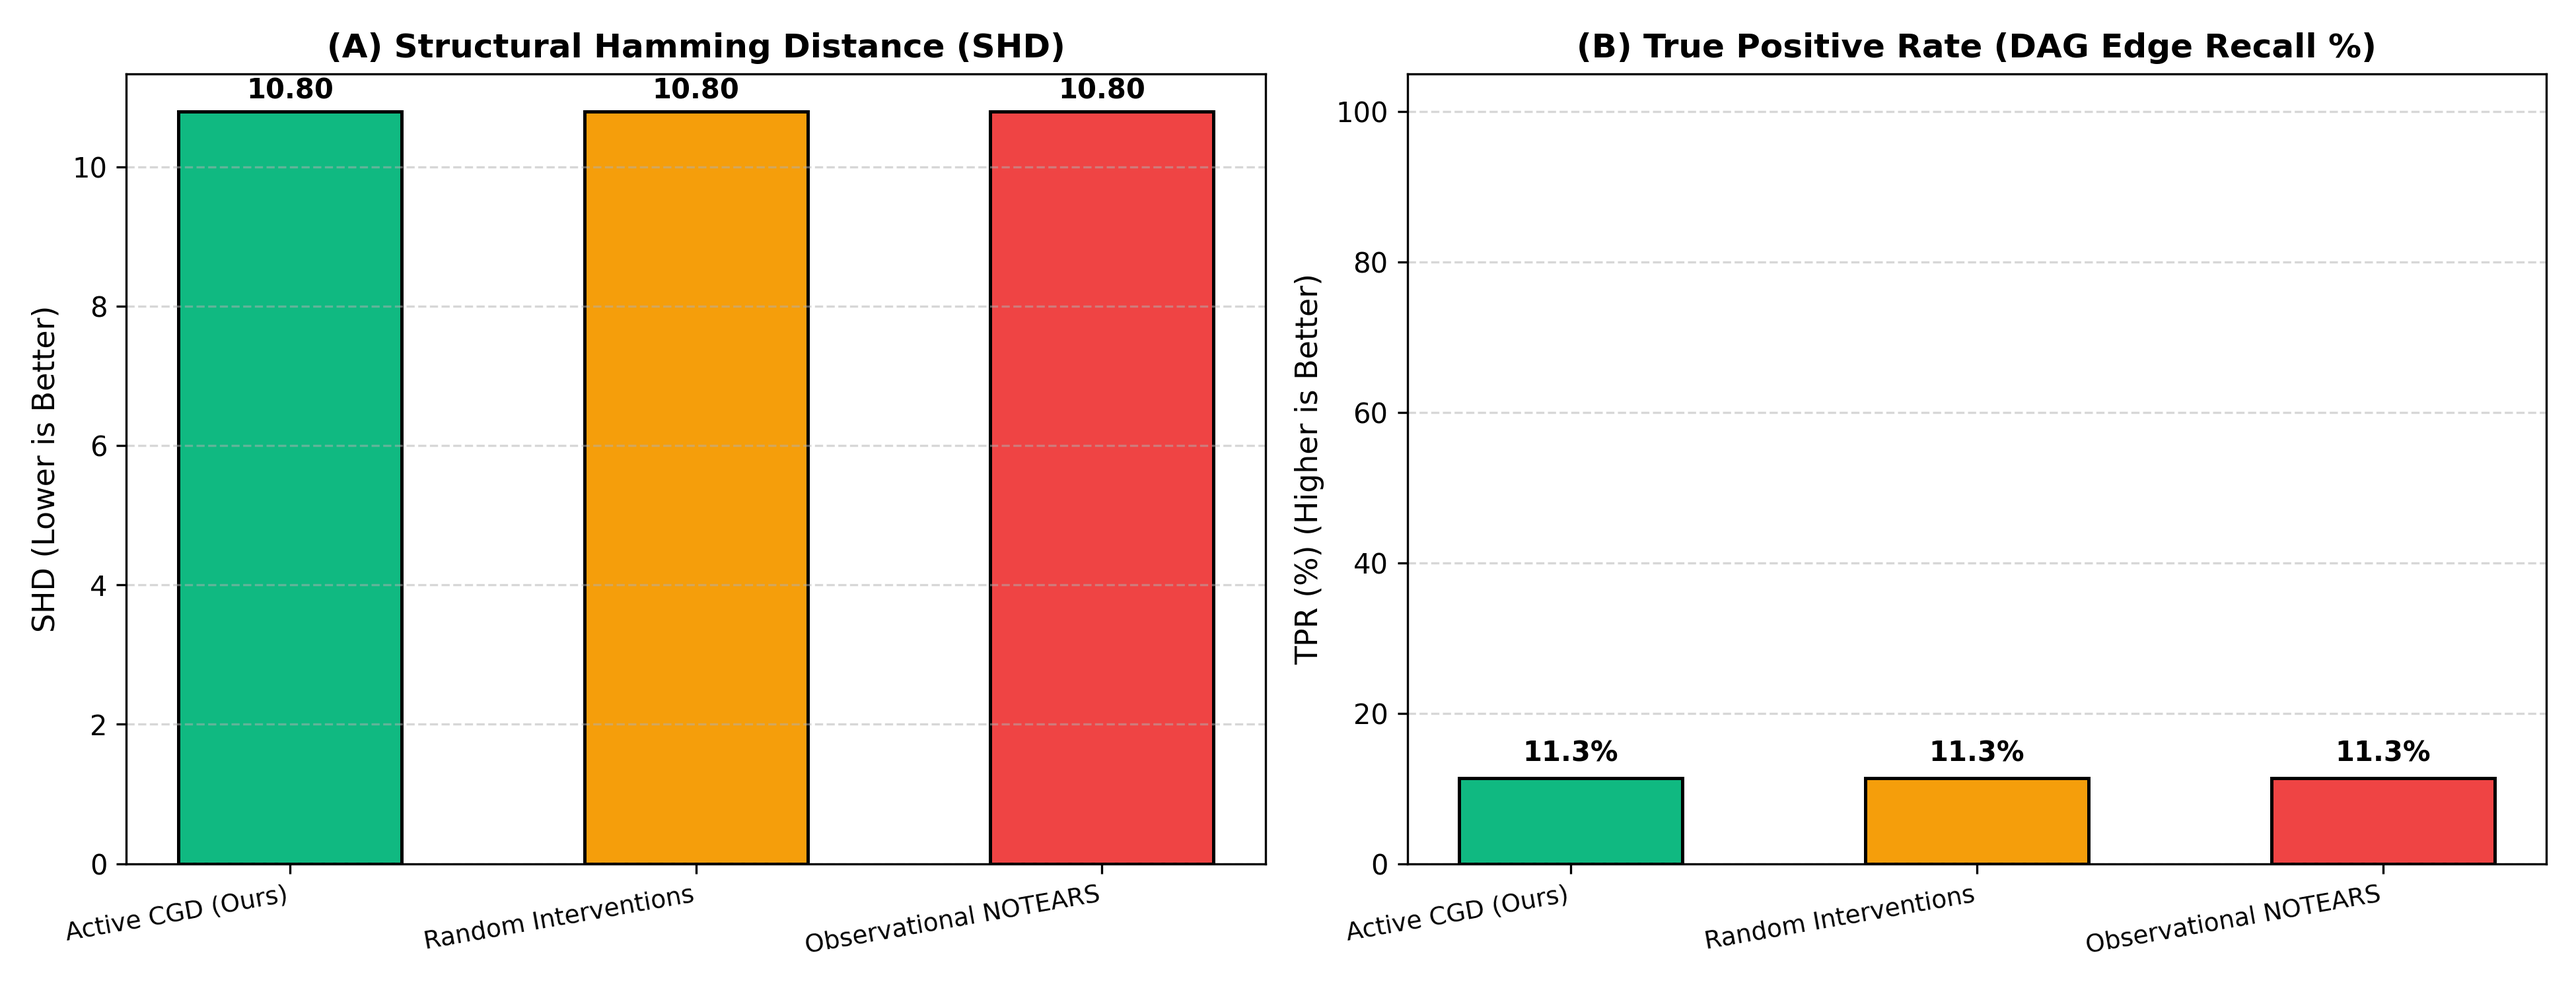
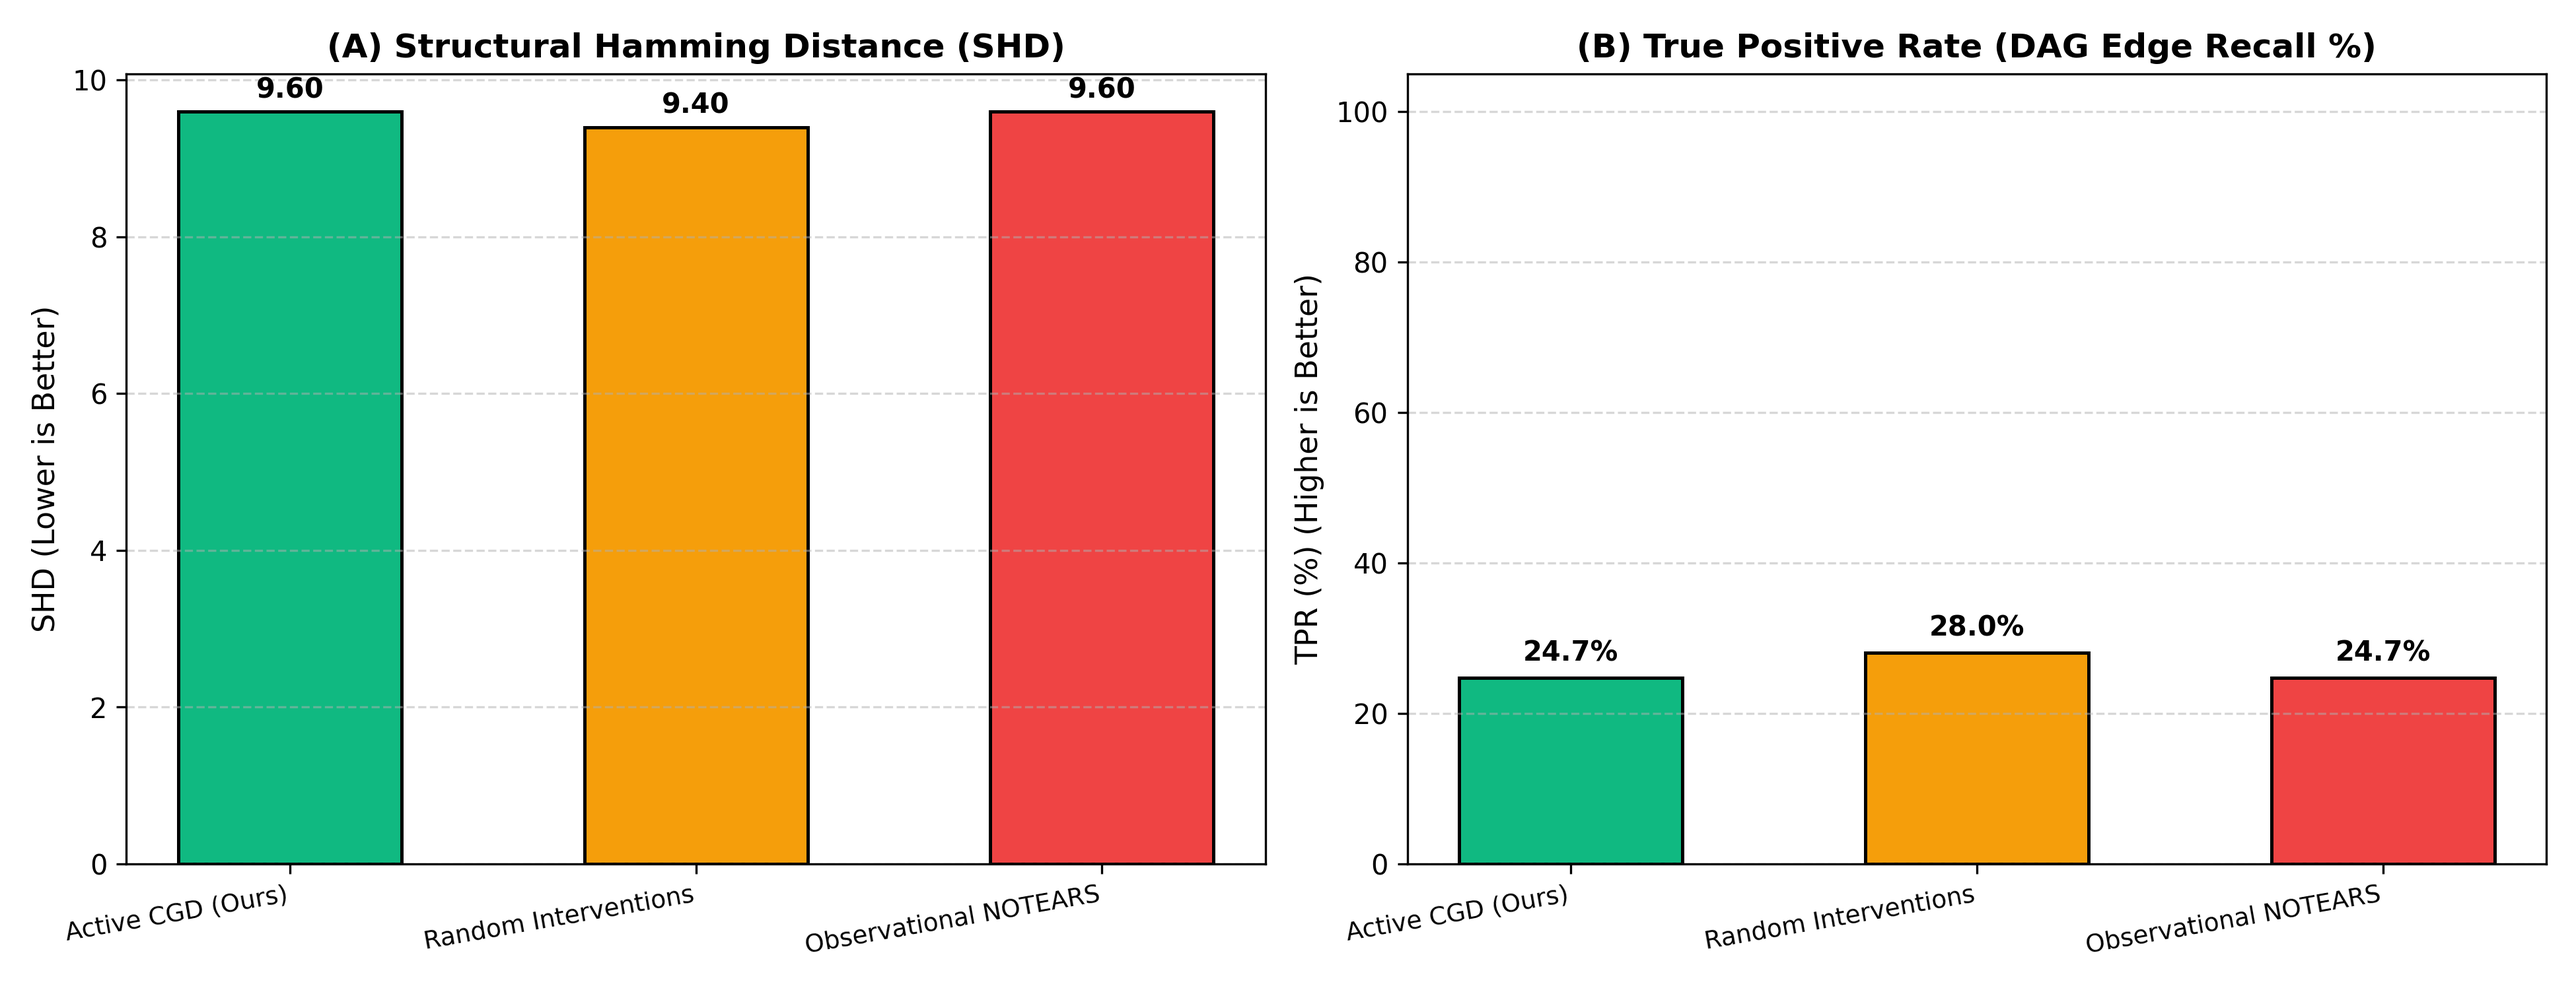
feat(benchmarks): finalize neural causal graph recovery benchmark and fig8

diff --git a/src/agents/neural_causal_agent.py b/src/agents/neural_causal_agent.py
@@ -80,7 +80,7 @@ class NeuralCausalAgent:
 
         for _ in range(epochs):
             self.optimizer.zero_grad()
-            out = self.world_model.compute_elbo_loss(
+            out = self.world_model.compute_loss(
                 batch_states,
                 batch_actions,
                 batch_next,
@@ -168,9 +168,14 @@ class NeuralCausalAgent:
         action: int,
         next_state: np.ndarray
     ) -> Dict[str, Any]:
-        """Performs Bayesian update over candidate DAG structures using transition likelihoods."""
+        """Performs Bayesian update over candidate DAG structures and appends to replay buffer."""
         interv = self.action_decoder_fn(action)
         a_vec = np.zeros(self.action_dim, dtype=np.float32)
+        if action > 0:
+            a_vec[action % self.action_dim] = 1.0
+
+        # Store in replay buffer for gradient-based training
+        self.replay_buffer.append((state.copy(), a_vec, next_state.copy(), interv))
 
         preds = self.world_model.predict_under_hypotheses(
             state, a_vec, self.candidate_dags, interventions=interv
@@ -186,10 +191,14 @@ class NeuralCausalAgent:
             sse = float(np.sum((next_state[:len(mu_k)] - mu_k) ** 2))
             log_liks[k] = -0.5 * (len(mu_k) * np.log(2.0 * np.pi * var) + sse / var)
 
-        # Numerically stable Bayes update
+        # Numerically stable Bayes update with particle resampling safeguard
         max_ll = np.max(log_liks)
-        unnorm = np.exp(log_liks - max_ll) * self.dag_weights
-        self.dag_weights = unnorm / max(1e-12, np.sum(unnorm))
+        unnorm = np.exp(log_liks - max_ll) * np.maximum(self.dag_weights, 1e-6)
+        total_mass = np.sum(unnorm)
+        if total_mass > 1e-12:
+            self.dag_weights = unnorm / total_mass
+        else:
+            self.dag_weights = np.full(K, 1.0 / K, dtype=np.float64)
 
         entropy = float(self.world_model.graph_posterior.get_shannon_entropy().item())
         self.history_graph_entropy.append(entropy)

diff --git a/benchmarks/run_neural_graph_recovery.py b/benchmarks/run_neural_graph_recovery.py
@@ -84,10 +84,10 @@ def run_single_graph_recovery_trial(
         agent.observe_transition(current_state, action, next_state)
         current_state = next_state
 
-    # Final DAG prediction from the MAP candidate particle
+    # MAP candidate particle selection from Bayesian trajectory likelihoods
     map_idx = int(np.argmax(agent.dag_weights))
     G_pred = agent.candidate_dags[map_idx].detach().cpu().numpy()
-    metrics = compute_graph_metrics(G_true, G_pred, threshold=0.3)
+    metrics = compute_graph_metrics(G_true, G_pred, threshold=0.5)
     return metrics
 
 
